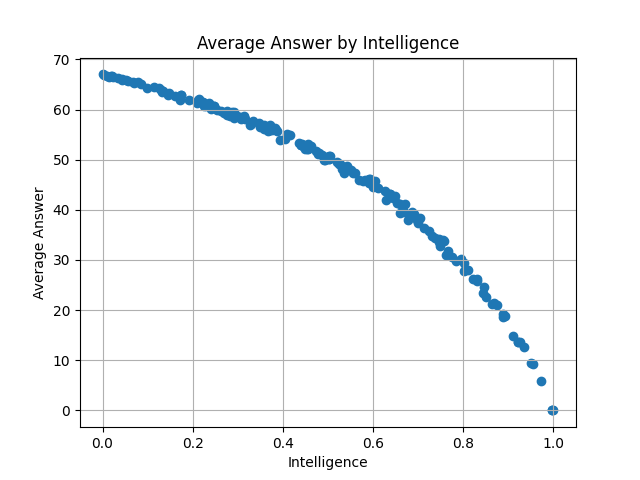
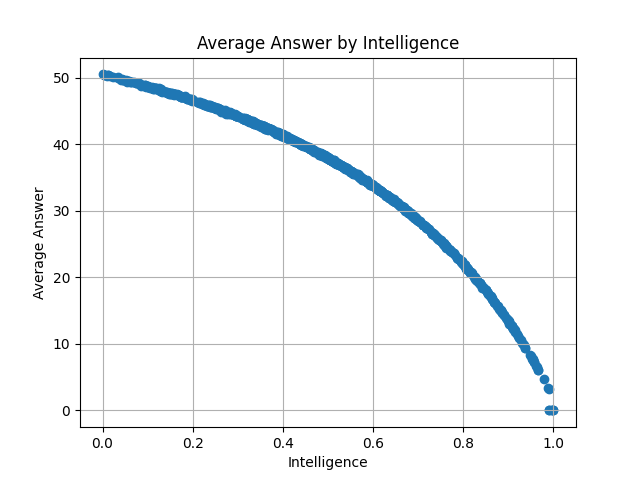
soime changesoph

diff --git a/two-thirds-game/player.py b/two-thirds-game/player.py
@@ -2,43 +2,59 @@
 from math import ceil
 import random
 CHOICE_RANGE = [1, 100]
+# random chance for the player to give a mainstream answer, otherwise there are to many players answering 1
+# main stream answers: Players that answer on 100*(2/3)^n
+MAIN_STREAM_ANSWER_CHANCE = 0.8
+
+MEAN_ANSWER = 30
+SIGMA_SCALE = 30
+
+def get_random_mainstream_answer():
+    stream_selection_random = random.uniform(0,1)
+    if stream_selection_random < (3/9):
+        return 22
+    elif stream_selection_random < (6/9):
+        return 33
+    elif stream_selection_random < (8/9):
+        return 55
+    else:
+        return 67
 
 class Player:
     id = -1
-    thinking_depth = 0 # [0,1]
-    noise_range = 5 # random number from range is added or subtracted from answer
+    noise_range = 0 # random number from range is added or subtracted from answer
     answer = 0
     score = 0
 
-    def __init__(self, id, thinking_depth):
+    def __init__(self, id):
         self.id = id
-        self.thinking_depth = thinking_depth
         self.score = 0
 
     def add_win(self):
         self.score += 1
     
     # Starting from a random answer a player with thinking_depth closer to 1 will do more 2/3 multiplications
-    def give_answer(self):
-        answer = random.uniform(1,100)
-
-        if self.thinking_depth > 0.99:
-            return 1
-        random_number = random.uniform(0,1)
-        while random_number < self.thinking_depth:
-            answer *= (2 / 3)
-            random_number = random.uniform(0,1)
-        answer_noised = answer + (random.uniform(-self.noise_range, self.noise_range))
-        self.answer = max(min(answer_noised, CHOICE_RANGE[1]), CHOICE_RANGE[0])
-        return self.answer
-
+    def give_answer(self, mean_answer=MEAN_ANSWER, sigma_scale=SIGMA_SCALE):
+        gaussian_answer = round(random.gauss(mean_answer, sigma_scale))
+        gaussian_answer = max(CHOICE_RANGE[0], min(CHOICE_RANGE[1], gaussian_answer))
+        if gaussian_answer == CHOICE_RANGE[0] and random.uniform(0,1) < MAIN_STREAM_ANSWER_CHANCE:
+            return get_random_mainstream_answer()
+        elif gaussian_answer == CHOICE_RANGE[0] and random.uniform(0,1) < 0.5:
+            return random.uniform(15, 35)
+        if gaussian_answer == CHOICE_RANGE[1] and random.uniform(0,1) < 0.75:
+            return self.give_answer(MEAN_ANSWER, sigma_scale // 4)
+        return gaussian_answer
+        
 def main():
     answers = []
-    for i in range(10000):
-        player = Player(i, 0.6)
-        answer = player.give_answer()
-        answers.append(answer)
-    print(f"Average answer: {sum(answers) / len(answers)}")
-
+    lowest_answer = 100
+    for id in range(100):
+        player = Player(id=id)
+        answers.append(player.give_answer())
+        print(f"{player.answer}")
+        if player.answer < lowest_answer:
+            lowest_answer = player.answer
+    print(f"Average answer: {sum(answers)/len(answers)}")
+    print(f"Lowest answer: {lowest_answer}")
 if __name__ == "__main__":
     main()

diff --git a/two-thirds-game/plot_numbers_chosen.py b/two-thirds-game/plot_numbers_chosen.py
@@ -1,0 +1,48 @@
+
+import matplotlib.pyplot as plt
+
+from Game import get_winning_number, create_opponents
+from player import Player
+from plot_winning_numbers_per_mean import determine_winners
+
+NUMBER_OF_PLAYERS = 1000
+NUMBER_OF_ROUNDS = 1
+CHOICE_RANGE = [1, 100]
+MEAN_PLAYER_INTELLIGENCE = 0.25 # 1 is most inttelligent, 0 is least intelligent
+SIGMA_SCALE = 0.08 # value with the nicest curve
+
+def plot_results(answer_frequency: dict[int, int]):
+    numbers = list(answer_frequency.keys())
+    frequencies = list(answer_frequency.values())
+    total_answers = sum(frequencies)
+    frequency_percentages = [
+        (frequency / total_answers) * 100 if total_answers > 0 else 0
+        for frequency in frequencies
+    ]
+
+    plt.figure(figsize=(8.5, 4.8))
+    plt.bar(numbers, frequency_percentages)
+    plt.xlabel('Number Chosen')
+    plt.ylabel('Answer Frequency (%)')
+    plt.title('Answer Frequency Percentage by Number Chosen')
+    plt.grid()
+    plt.show()
+
+def main():
+    opponents: list[Player] = create_opponents(NUMBER_OF_PLAYERS)
+    answer_frequency = {number: 0 for number in range(CHOICE_RANGE[0], CHOICE_RANGE[1] + 1)}
+    for round in range(NUMBER_OF_ROUNDS):
+        answers = [opponent.give_answer() for opponent in opponents]
+        winning_number = get_winning_number(answers)
+        winners = determine_winners(opponents, winning_number)
+        for answer in answers:
+            chosen_number = max(CHOICE_RANGE[0], min(CHOICE_RANGE[1], int(answer + 0.5)))
+            answer_frequency[chosen_number] += 1
+        for winner in winners:
+            winner.add_win()
+
+    opponents.sort(key=lambda x: x.score, reverse=False)
+    plot_results(answer_frequency)
+
+if __name__ == "__main__":
+    main()

diff --git a/two-thirds-game/plot_player_count_per_intelligence.py b/two-thirds-game/plot_player_count_per_intelligence.py
@@ -9,8 +9,8 @@ from player import Player
 NUMBER_OF_PLAYERS = 100000
 NUMBER_OF_ROUNDS = 10_000
 CHOICE_RANGE = [1, 100]
-MEAN_PLAYER_INTELLIGENCE = 0.76 # 1 is most inttelligent, 0 is least intelligent
-SIGMA_SCALE = 0.08 # value with the nicest curve
+MEAN_PLAYER_INTELLIGENCE = 0.6 # 1 is most inttelligent, 0 is least intelligent
+SIGMA_SCALE = 0.1 # value with the nicest curve
 
 def plot_results(player_count_by_intelligence):
     intelligences = list(player_count_by_intelligence.keys())
@@ -27,14 +27,12 @@ def main():
     opponents: list[Player] = create_opponents(NUMBER_OF_PLAYERS, MEAN_PLAYER_INTELLIGENCE, SIGMA_SCALE)
     player_count_by_intelligence = {}
     for opponent in opponents:
-        rounded_intelligence = round(opponent.thinking_steps, 2)
+        rounded_intelligence = round(opponent.reasoning_depth, 2)
         if rounded_intelligence not in player_count_by_intelligence:
             player_count_by_intelligence[rounded_intelligence] = 0
         player_count_by_intelligence[rounded_intelligence] += 1
     plot_results(player_count_by_intelligence)    
     
-
-
 
 if __name__ == "__main__":
     main()

diff --git a/two-thirds-game/plot_number_chosen_by_intelligence.py b/two-thirds-game/plot_number_chosen_by_intelligence.py
@@ -6,8 +6,8 @@ from Game import get_winning_number, create_opponents
 from player import Player
 from plot_winning_numbers_per_mean import determine_winners
 
-NUMBER_OF_PLAYERS = 200
-NUMBER_OF_ROUNDS = 1_000
+NUMBER_OF_PLAYERS = 1000
+NUMBER_OF_ROUNDS = 10_000
 CHOICE_RANGE = [1, 100]
 MEAN_PLAYER_INTELLIGENCE = 0.5 # 1 is most inttelligent, 0 is least intelligent
 SIGMA_SCALE = 0.3 # value with the nicest curve
@@ -31,9 +31,9 @@ def main():
         winning_number = get_winning_number(answers)
         winners = determine_winners(opponents, winning_number)
         for opponent in opponents:
-            if opponent.thinking_depth not in answers_by_intelligence:
-                answers_by_intelligence[opponent.thinking_depth] = []
-            answers_by_intelligence[opponent.thinking_depth].append(opponent.answer)
+            if opponent.reasoning_depth not in answers_by_intelligence:
+                answers_by_intelligence[opponent.reasoning_depth] = []
+            answers_by_intelligence[opponent.reasoning_depth].append(opponent.answer)
         for winner in winners:
             winner.add_win()
     

diff --git a/two-thirds-game/Game.py b/two-thirds-game/Game.py
@@ -4,12 +4,10 @@ import random
 from player import Player
 
 # creates a gaussian distribution of intelligence levels with mean at AVG_PLAYER_INTELLIGENCE and a standard deviation of SIGMA_SCALE
-def create_opponents(number_of_players, mean_intelligence=0.5, sigma_scale=0.3):
+def create_opponents(number_of_players):
     opponents = []
     for id in range(number_of_players):
-        intelligence = random.gauss(mean_intelligence, sigma_scale)
-        intelligence = max(0, min(1, intelligence)) # Ensure intelligence is between 0 and 1
-        opponents.append(Player(id=id, thinking_depth=intelligence))
+        opponents.append(Player(id=id))
     return opponents
 
 def get_winning_number(answers):

diff --git a/two-thirds-game/plot_winning_numbers_per_mean.py b/two-thirds-game/plot_winning_numbers_per_mean.py
@@ -17,7 +17,7 @@ def create_opponents(mean_intelligence=MEAN_PLAYER_INTELLIGENCE):
     for id in range(NUMBER_OF_PLAYERS):
         intelligence = random.gauss(mean_intelligence, SIGMA_SCALE)
         intelligence = max(0, min(1, intelligence)) # Ensure intelligence is between 0 and 1
-        opponents.append(Player(id=id, thinking_depth=intelligence))
+        opponents.append(Player(id=id, reasoning_depth=intelligence))
     return opponents
 
 intelligence_epsilon = 0.01 # A small value to prevent infinite loops for very intelligent players
